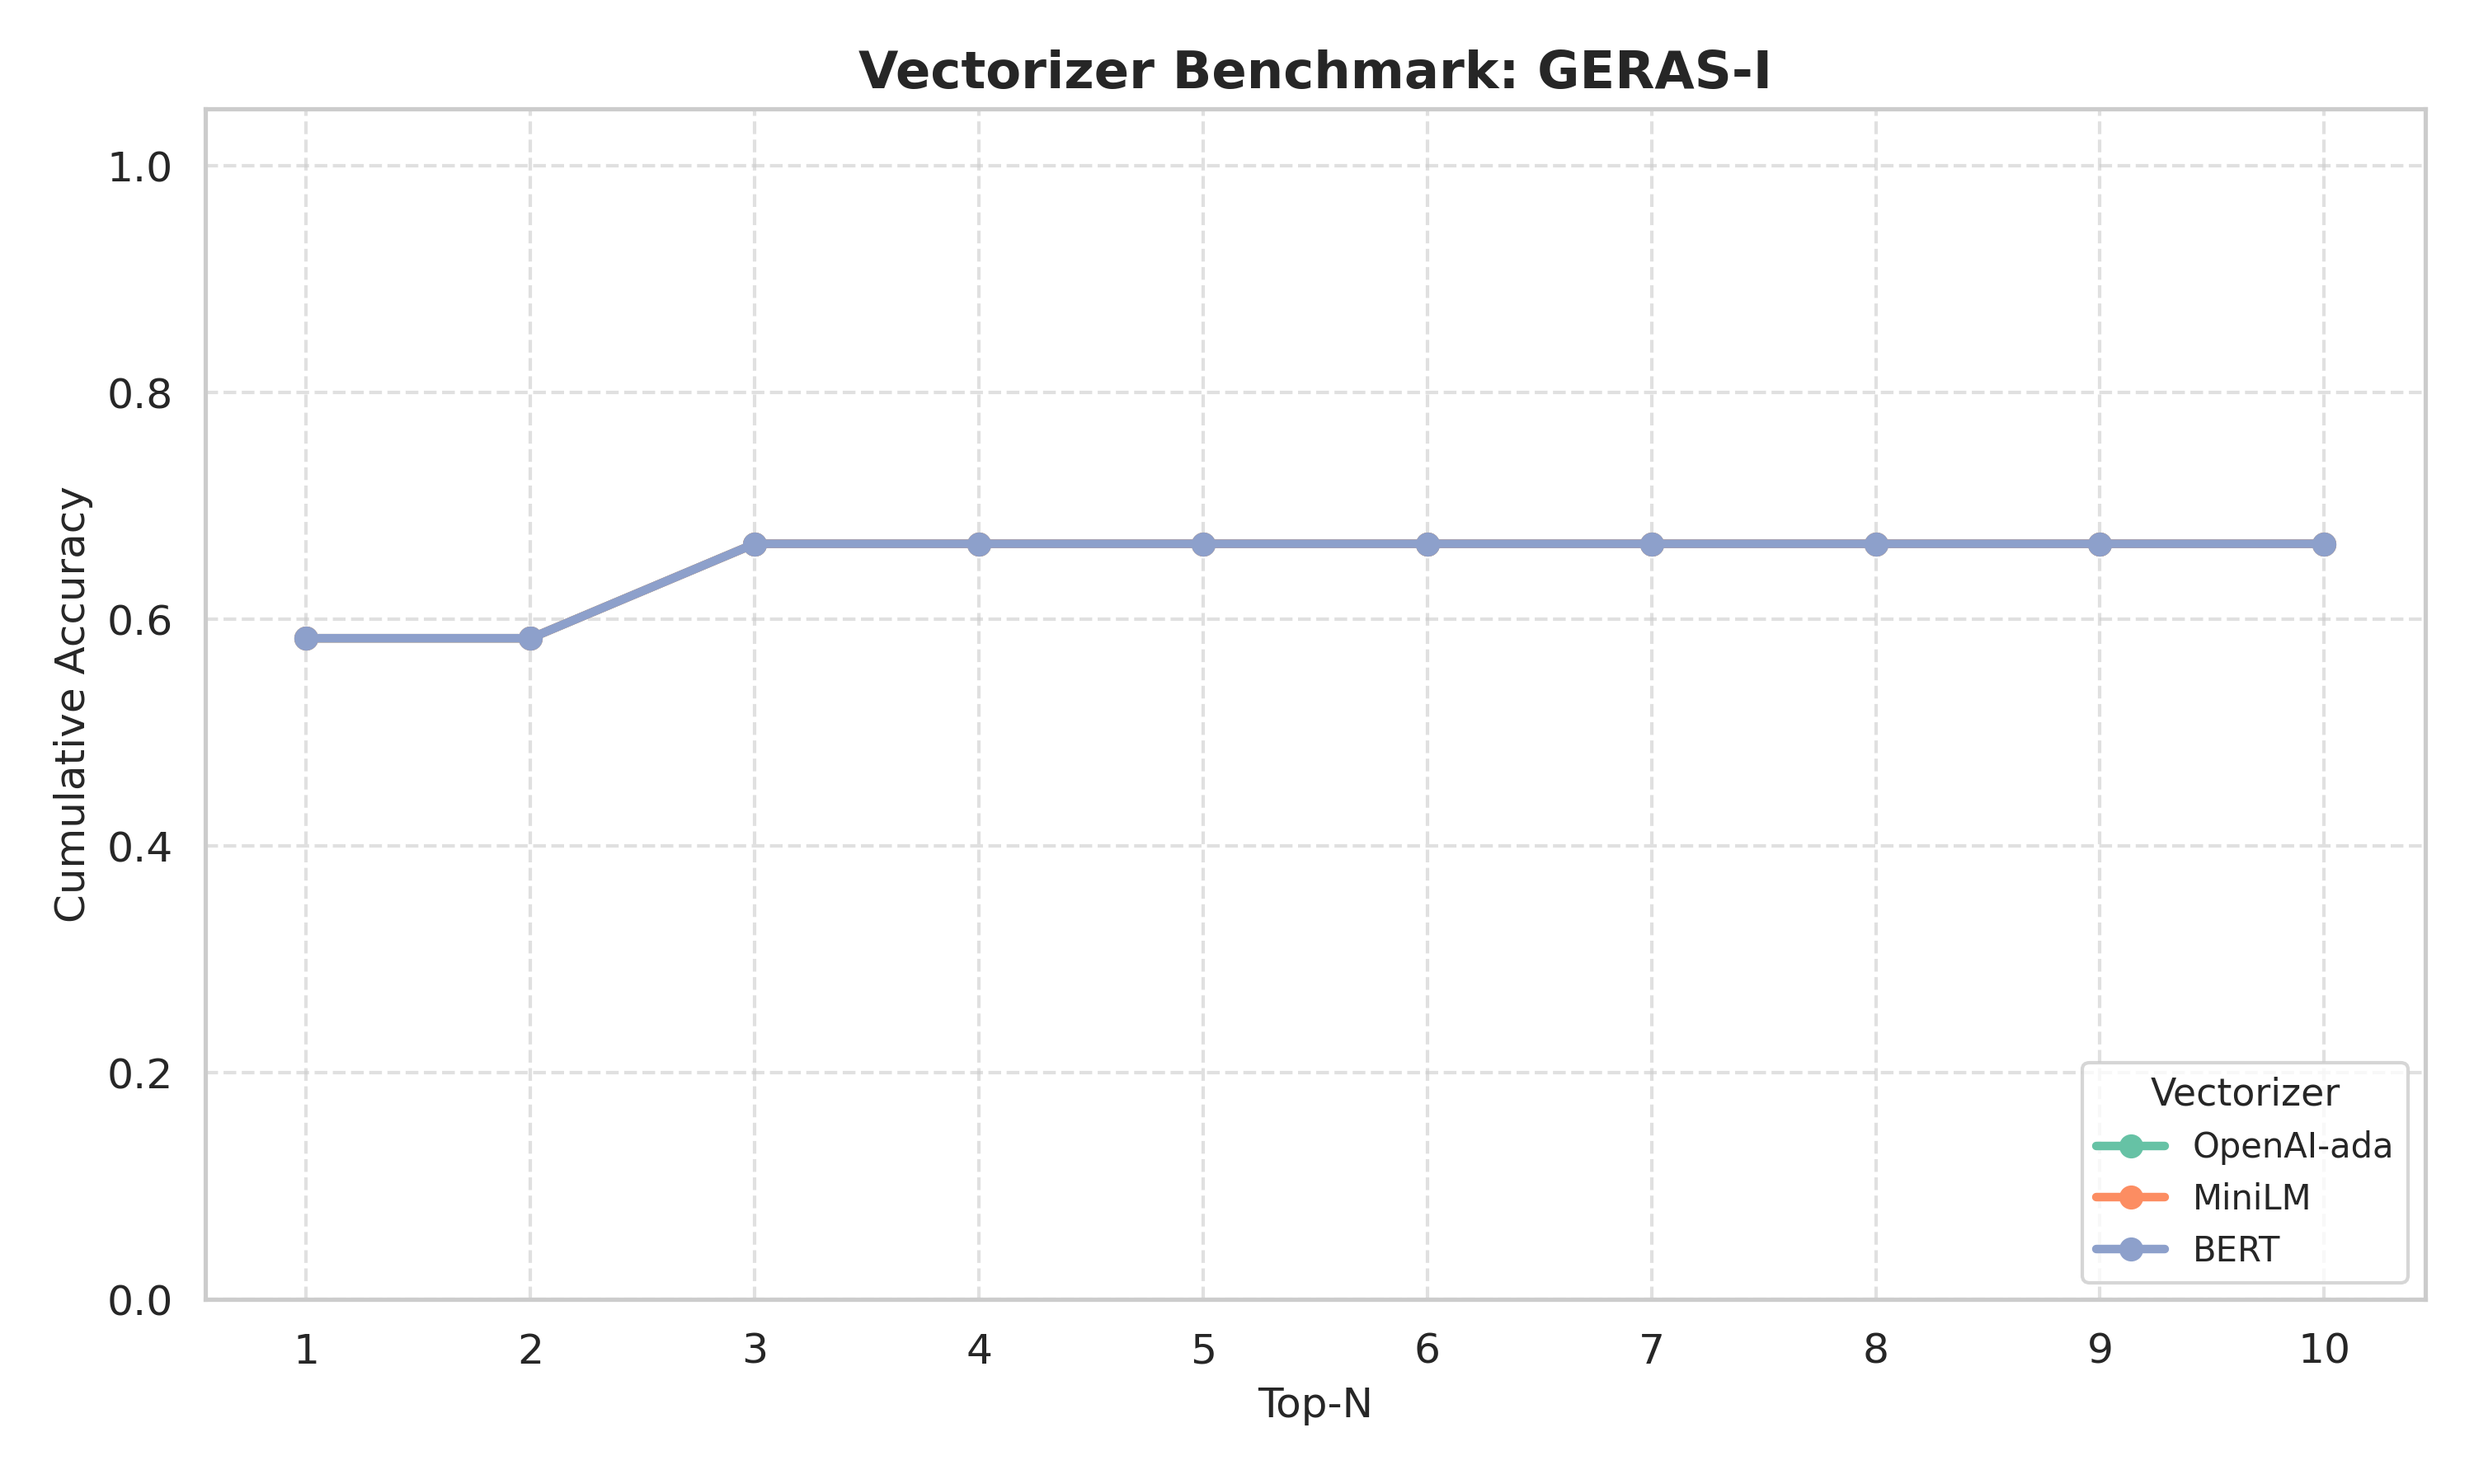
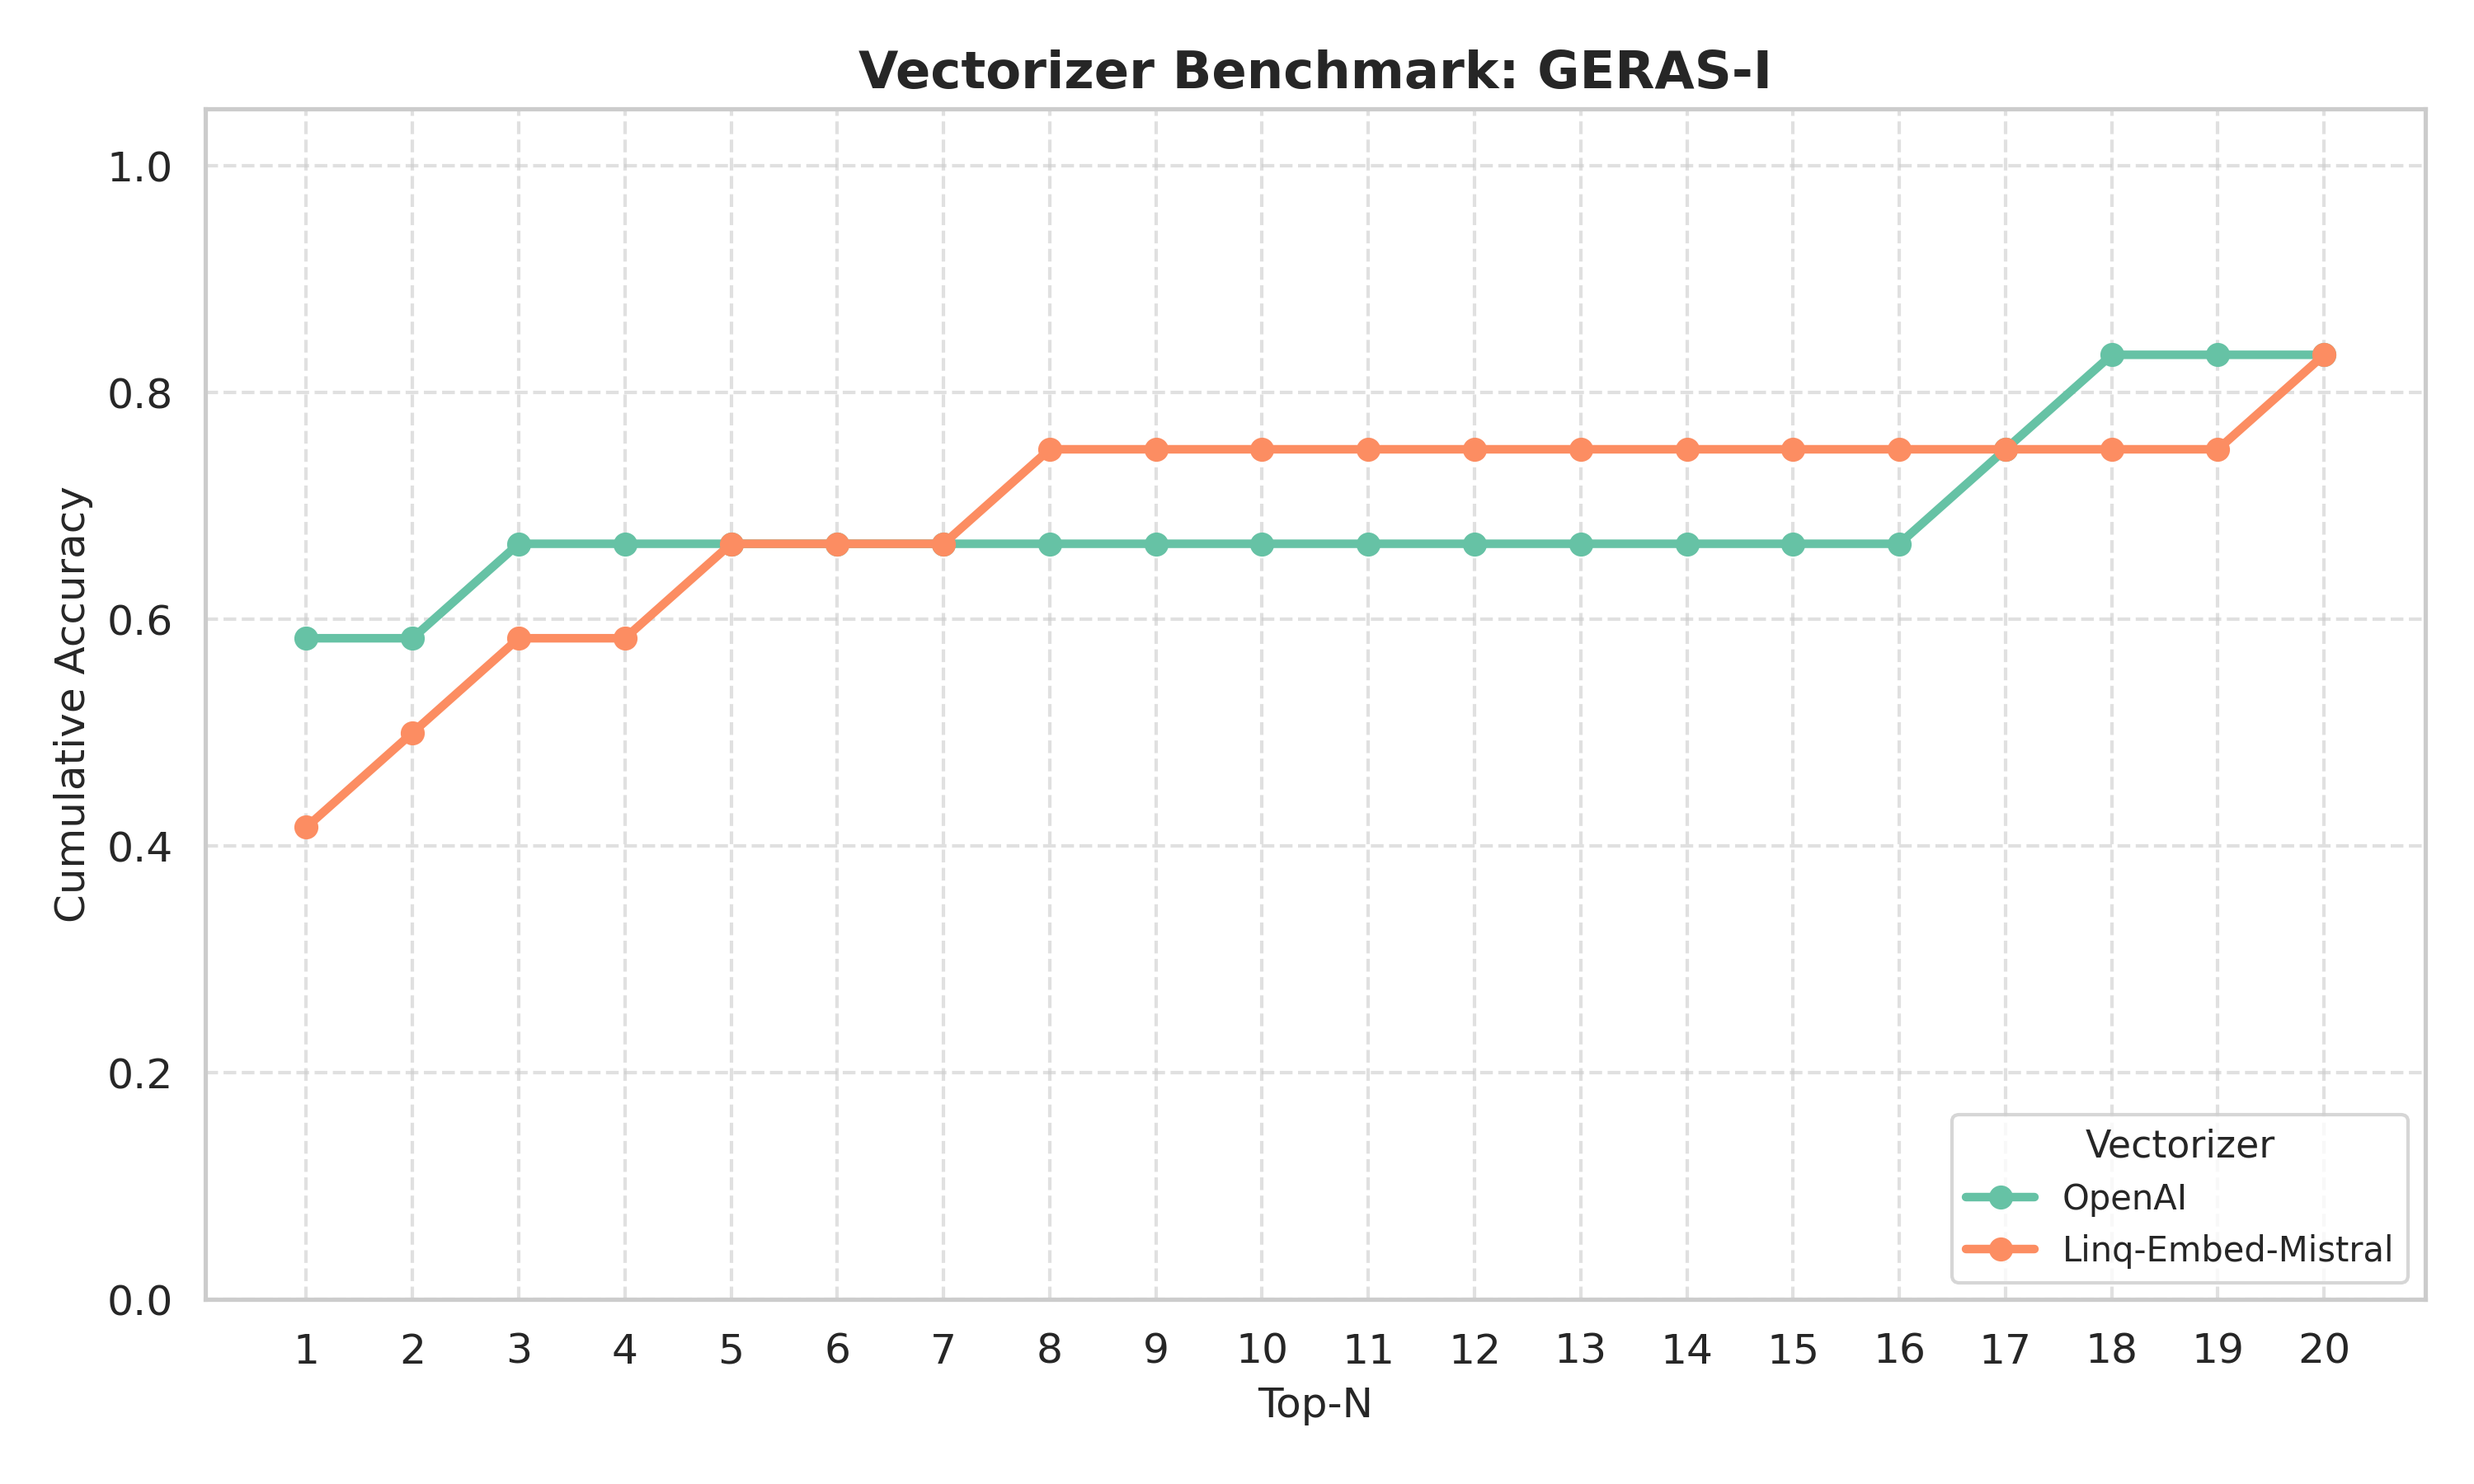
add: results for linq

diff --git a/ad-llm-embeddings-benchmark/visualization.py b/ad-llm-embeddings-benchmark/visualization.py
@@ -6,9 +6,9 @@ from typing import Dict, List, Optional
 
 def plot_top_n_accuracies(
         accuracies: Dict[str, List[float]],
-        title: str = "Top-N Accuracy per Cohort",
         save_path: Optional[str] = None,
-        palette: Optional[str] = "Set2"
+        palette: Optional[str] = "Set2",
+        vectorizer_name: Optional[str] = None,
 ) -> None:
     """
     Plot cumulative top-N accuracies for a single vectorizer with a modern style.
@@ -29,6 +29,8 @@ def plot_top_n_accuracies(
     for (cohort_name, acc_list), color in zip(accuracies.items(), color_palette):
         plt.plot(x, acc_list, marker='o', linewidth=2.5, label=cohort_name, color=color)
 
+    title: str = "Top-N Accuracy per Cohort " + vectorizer_name if vectorizer_name else "Top-N Accuracy per Cohort"
+
     plt.title(title, fontsize=16, fontweight='bold')
     plt.xlabel("Top-N", fontsize=13)
     plt.ylabel("Cumulative Accuracy", fontsize=13)
@@ -39,7 +41,7 @@ def plot_top_n_accuracies(
     plt.tight_layout()
 
     if save_path:
-        plt.savefig(save_path + "/" + "overall_openai.png", dpi=300)
+        plt.savefig(save_path + "/" + "overall_" + vectorizer_name +".png", dpi=300)
         plt.close()
     else:
         plt.show()
@@ -64,10 +66,10 @@ def summarize_top1_accuracies(all_accuracies: Dict[str, Dict[str, List[float]]])
 
 
 def plot_topn_per_cohort(
-    all_accuracies: Dict[str, Dict[str, List[float]]],
-    title_prefix: str = "Top-N Accuracy",
-    palette: Optional[str] = "Set2",
-    save_path: Optional[str] = None
+        all_accuracies: Dict[str, Dict[str, List[float]]],
+        title_prefix: str = "Top-N Accuracy",
+        palette: Optional[str] = "Set2",
+        save_path: Optional[str] = None
 ) -> None:
     """
     Plot Top-N accuracy curves per cohort comparing multiple vectorizers.
@@ -105,26 +107,55 @@ def plot_topn_per_cohort(
             plt.close()
         else:
             plt.show()
+
+
 results_openai = {
     'GERAS-I': [0.5833333333333334, 0.5833333333333334, 0.6666666666666666, 0.6666666666666666, 0.6666666666666666,
-                0.6666666666666666, 0.6666666666666666, 0.6666666666666666, 0.6666666666666666, 0.6666666666666666],
-    'GERAS-US': [0.7, 0.7, 0.7, 0.7, 0.7, 0.7, 0.7, 0.7, 0.7, 0.8],
+                0.6666666666666666, 0.6666666666666666, 0.6666666666666666, 0.6666666666666666, 0.6666666666666666,
+                0.6666666666666666, 0.6666666666666666, 0.6666666666666666, 0.6666666666666666, 0.6666666666666666,
+                0.6666666666666666, 0.75, 0.8333333333333334, 0.8333333333333334, 0.8333333333333334],
+    'GERAS-US': [0.7, 0.7, 0.7, 0.7, 0.7, 0.7, 0.7, 0.7, 0.7, 0.8, 0.8, 0.8, 0.8, 0.8, 0.9, 0.9, 0.9, 0.9, 0.9, 0.9],
     'GERAS-J': [0.5714285714285714, 0.7619047619047619, 0.8095238095238095, 0.8095238095238095, 0.8571428571428571,
+                0.8571428571428571, 0.8571428571428571, 0.8571428571428571, 0.8571428571428571, 0.8571428571428571,
+                0.8571428571428571, 0.8571428571428571, 0.8571428571428571, 0.8571428571428571, 0.8571428571428571,
                 0.8571428571428571, 0.8571428571428571, 0.8571428571428571, 0.8571428571428571, 0.8571428571428571],
     'GERAS-II': [0.6666666666666666, 0.6666666666666666, 0.6666666666666666, 0.6666666666666666, 0.6666666666666666,
-                 0.6666666666666666, 0.6666666666666666, 0.6666666666666666, 0.6666666666666666, 0.7777777777777778],
-    'PREVENT Dementia': [0.20754716981132076, 0.2830188679245283, 0.3018867924528302, 0.3018867924528302,
+                 0.6666666666666666, 0.6666666666666666, 0.6666666666666666, 0.6666666666666666, 0.7777777777777778,
+                 0.7777777777777778, 0.7777777777777778, 0.7777777777777778, 0.7777777777777778, 0.8888888888888888,
+                 0.8888888888888888, 0.8888888888888888, 0.8888888888888888, 0.8888888888888888, 0.8888888888888888],
+    'PREVENT Dementia': [0.22641509433962265, 0.24528301886792453, 0.3018867924528302, 0.3018867924528302,
                          0.33962264150943394, 0.33962264150943394, 0.33962264150943394, 0.33962264150943394,
-                         0.3584905660377358, 0.37735849056603776]}
+                         0.3584905660377358, 0.37735849056603776, 0.39622641509433965, 0.39622641509433965,
+                         0.39622641509433965, 0.39622641509433965, 0.39622641509433965, 0.39622641509433965,
+                         0.39622641509433965, 0.39622641509433965, 0.39622641509433965, 0.39622641509433965]}
 
-title = "Top-N Cumulative Accuracy for OpenAI Vectorizer"
 
-plot_top_n_accuracies(accuracies=results_openai, title=title, save_path="plots")
+
+results_linq = {
+    'GERAS-I': [0.4166666666666667, 0.5, 0.5833333333333334, 0.5833333333333334, 0.6666666666666666, 0.6666666666666666,
+                0.6666666666666666, 0.75, 0.75, 0.75, 0.75, 0.75, 0.75, 0.75, 0.75, 0.75, 0.75, 0.75, 0.75,
+                0.8333333333333334],
+    'GERAS-US': [0.3, 0.3, 0.4, 0.5, 0.6, 0.6, 0.6, 0.6, 0.6, 0.6, 0.6, 0.6, 0.6, 0.6, 0.6, 0.6, 0.6, 0.6, 0.6, 0.6],
+    'GERAS-J': [0.38095238095238093, 0.5238095238095238, 0.6666666666666666, 0.6666666666666666, 0.6666666666666666,
+                0.6666666666666666, 0.7142857142857143, 0.7142857142857143, 0.7619047619047619, 0.7619047619047619,
+                0.7619047619047619, 0.7619047619047619, 0.7619047619047619, 0.7619047619047619, 0.7619047619047619,
+                0.7619047619047619, 0.7619047619047619, 0.7619047619047619, 0.8095238095238095, 0.8095238095238095],
+    'GERAS-II': [0.2222222222222222, 0.3333333333333333, 0.4444444444444444, 0.5555555555555556, 0.6666666666666666,
+                 0.6666666666666666, 0.6666666666666666, 0.6666666666666666, 0.6666666666666666, 0.6666666666666666,
+                 0.6666666666666666, 0.6666666666666666, 0.6666666666666666, 0.6666666666666666, 0.6666666666666666,
+                 0.6666666666666666, 0.6666666666666666, 0.6666666666666666, 0.6666666666666666, 0.6666666666666666],
+    'PREVENT Dementia': [0.1320754716981132, 0.1320754716981132, 0.18867924528301888, 0.20754716981132076,
+                         0.20754716981132076, 0.20754716981132076, 0.20754716981132076, 0.20754716981132076,
+                         0.22641509433962265, 0.22641509433962265, 0.22641509433962265, 0.22641509433962265,
+                         0.22641509433962265, 0.24528301886792453, 0.24528301886792453, 0.24528301886792453,
+                         0.2830188679245283, 0.2830188679245283, 0.3018867924528302, 0.3018867924528302]}
+
+
+plot_top_n_accuracies(accuracies=results_linq, vectorizer_name="Linq-Embed-Mistral", save_path="plots")
 
 all_accuracies = {
     "OpenAI": results_openai,
-    "MiniLM": results_openai,
-    "BERT": results_openai
+    "Linq-Embed-Mistral": results_linq,
 }
 
 df_summary = summarize_top1_accuracies(all_accuracies)

diff --git a/ad-llm-embeddings-benchmark/main.py b/ad-llm-embeddings-benchmark/main.py
@@ -13,9 +13,9 @@ logging.basicConfig(
 openai_api_key = os.getenv("OPENAI_API_KEY")
 
 openai_vectorizer = OpenAIVectorizer(api_key=openai_api_key)
-linq_embed_mistral = LinqEmbedMistralVectorizer()
+#linq_embed_mistral = LinqEmbedMistralVectorizer()
 
-vectorizers = [linq_embed_mistral]
+vectorizers = [openai_vectorizer]
 
 for vectorizer in vectorizers:
     print(f"Running benchmark for {vectorizer.model_name}...")
